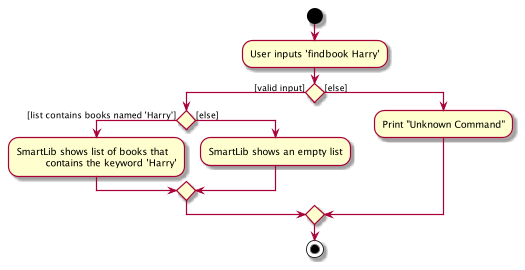
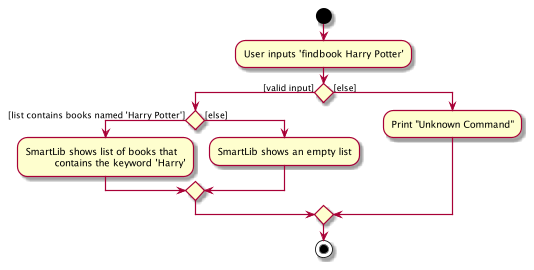
Fix checkstyle error

diff --git a/docs/DeveloperGuide.md b/docs/DeveloperGuide.md
@@ -199,6 +199,27 @@ The following activity diagram summarizes what happens when a user executes the 
 
 ![ListReaderActivityDiagram](images/FindReaderActivityDiagram.png)
 
+### Find books with keywords
+
+Finding books in the book list requires a user input from the CLI.
+The respective parsers will parse the user input to check whether the input is valid, and obtain the keyword(s) of the book(s) that the user wants to find.
+
+Given below is an example usage scenario of how the `findbook` mechanism behaves at each step. In our example and the diagrams below, we assume that the user input is `findbook Harry Potter`:
+* Step 1: The user launches the SmartLib application with all of his/her readers already added to the reader list.
+* Step 2: The user inputs `findbook Harry Potter` to SmartLib, which calls upon `LogicManager#execute()`.
+* Step 3: `SmartLibParser` and `FindBookCommandParser` will check the user input, and return a `FindBookCommand` to the `LogicManager` if the input is valid.
+* Step 4: `LogicManager` will then call `FindBookCommand#execute()`, which in turn calls `Model#updateFilteredBookList()`.
+* Step 5: The book list is updated and reflected on the GUI.
+
+The following sequence diagram shows how the `findbook` operation works:
+
+![FindBookSequenceDiagram](images/FindBookSequenceDiagram.png)
+
+The following activity diagram summarizes what happens when a user executes the `findbook` command:
+
+![FindBookActivityDiagram](images/FindBookActivityDiagram.png)
+
+
 ### Record a reader borrowing a book
 
 Recording a reader borrowing a book requires a user input from the CLI.
